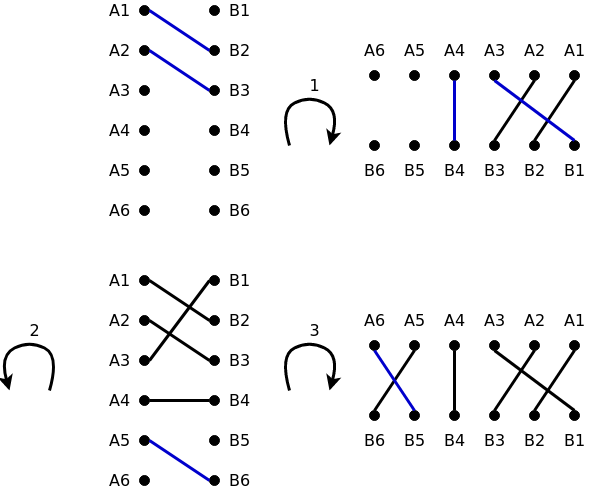
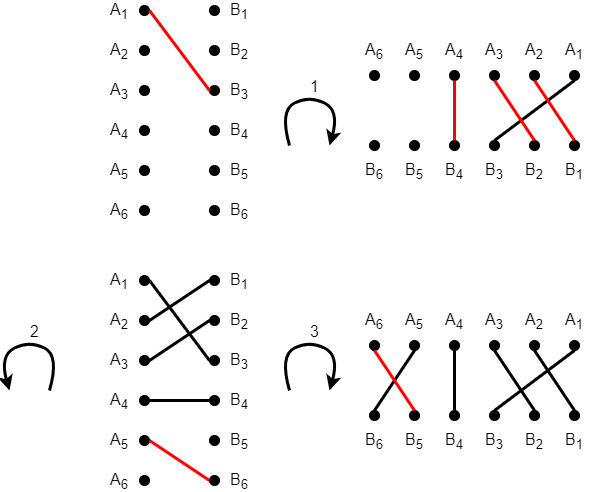
Matching修正錯誤的範例說明

diff --git a/Matching/statement/problem.md b/Matching/statement/problem.md
@@ -69,6 +69,6 @@
 3
 ```
 
-以下為範例輸入輸出的示意圖，首先可以連接 $1,2$, $2,3$ 兩組，接著順時針旋轉 90 度，連接 $3,1$, $4,4$ 兩組，接著轉回去，連接 $5,6$ ，最後再順時針旋轉，連接 $6,5$。                              
+以下為範例輸入輸出的示意圖，首先連接 $A_1-B_3$ 接著順時針旋轉 90 度，連接 $A_2-B_1$、$A_3-B_2$、$A_4-B_4$ 三組，接著轉回去，連接 $A_5-B_6$ ，最後再順時針旋轉，連接 $A_6-B_5$。                              
 
-![](matching_sample.png){ height=300px }
+![](matching_sample.png){ width=100% }
